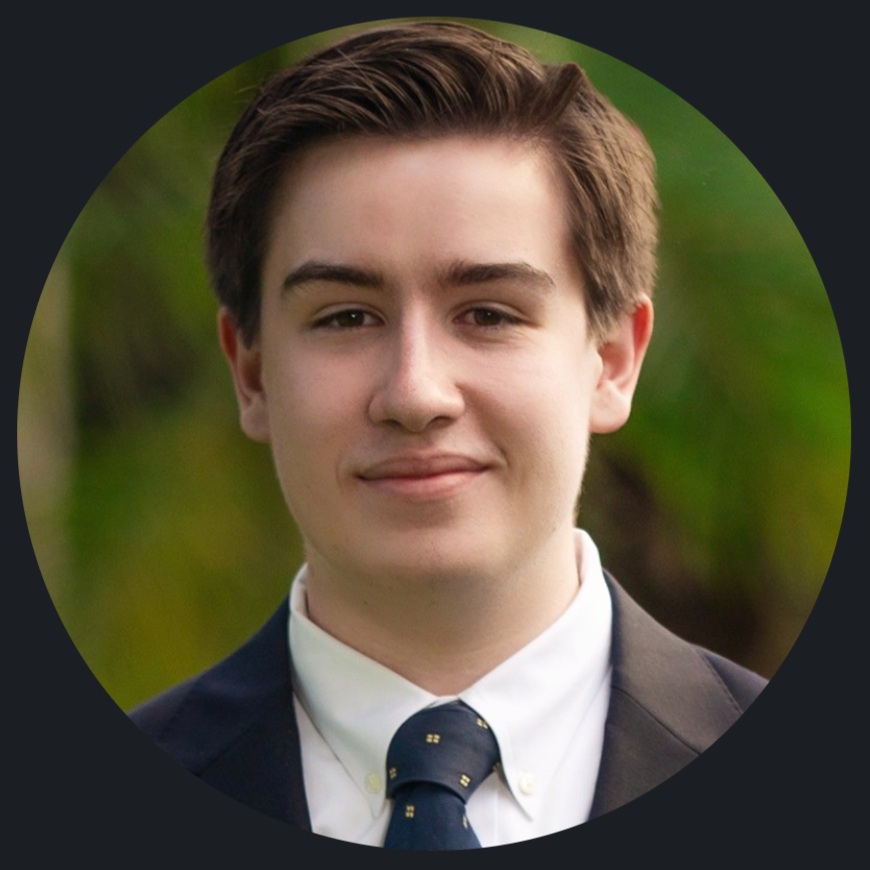
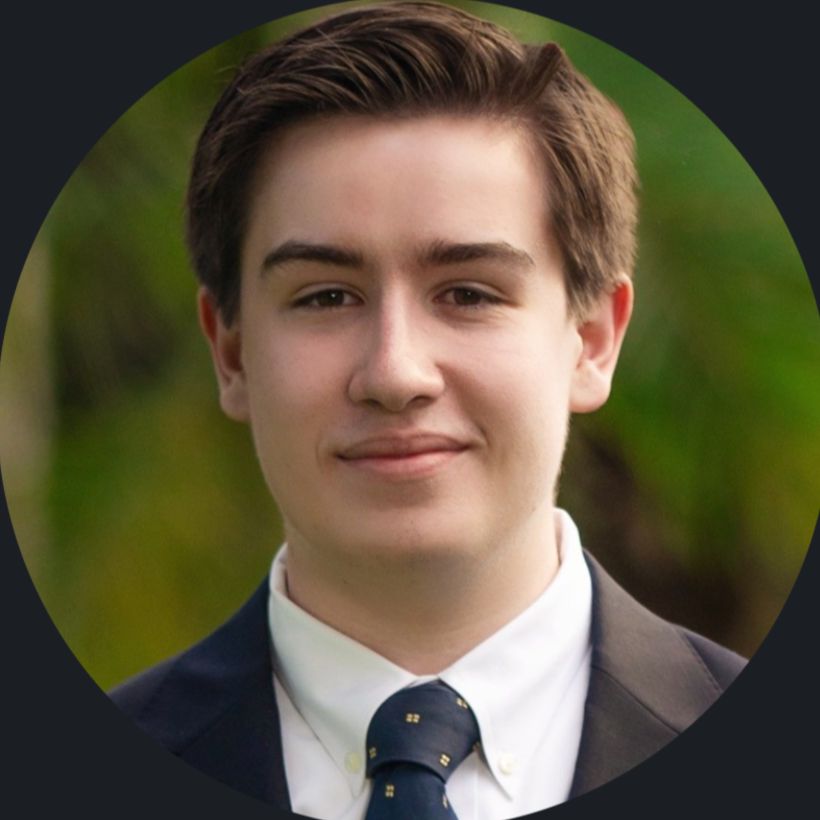
some changenes to images and shizeurfejils

diff --git a/index.html b/index.html
@@ -364,7 +364,7 @@
                 <h1 class="headline-main scramble-text hero-headline" data-value="REJECT">REJECT</h1>
                 <h1 class="headline-main scramble-text hero-headline" data-value="COSSET,">COSSET,</h1>
                 <h1 class="headline-main scramble-text hero-headline" data-value="BUILD">BUILD</h1>
-                <h1 class="headline-main scramble-text hero-headline" data-value="INSTITUTION.">INSTITUTION.</h1>
+                <h1 class="headline-main scramble-text hero-headline" data-value="INSTITUTION">INSTITUTION</h1>
                 <!-- Subtitle/Tagline - Added hero-subtext class for color -->
                 <p class="body-text mt-6 animate-on-load delay-500 max-w-xl mx-auto hero-subtext">
                     Modernizing Asset Management Through Multidisciplinary Quantitative Strategies
@@ -381,19 +381,6 @@
         </section>
 
         <!-- Intro Section -->
-        <!-- <section class="py-24 md:py-24 bg-[var(--bg-secondary)] text-center h-[50vh] flex items-center justify-center">
-                <div class="container mx-auto max-w-3xl">
-                    <p class="body-text animate-on-load delay-200">At Porte Commonwealth, our insight is rooted not in
-                        convention but in the wisdom of the past, empowering us to shape our world rather than become a
-                        product of it. Every day, we harness our resources, perspectives, and relationships to challenge
-                        norms, drive lasting impact, and deliver solutions that redefine what’s possible in quantitative
-                        finance.</p>
-                    <p class="body-text mt-4 animate-on-load delay-300">Markets are a game of marginal gains. Generating
-                        alpha requires looking beyond conventional thinking to identify and capitalize on
-                        micro-inefficiencies. Algorithmic trading is the embodiment of that approach, transforming insight
-                        into decisive action. It’s how we navigate complexity, seize opportunity, and shape outcomes.</p>
-                </div>
-            </section> -->
 
         <section class="py-16 md:py-24 bg-[var(--bg-primary)] px-4">
             <div class="container mx-auto max-w-3xl">
@@ -458,9 +445,10 @@
                 </div>
 
             </div>
+        </section>
          
         <!-- CATASHORT Advancement Section -->
-        <section class="py-16 md:py-24 bg-[var(--bg-primary)] px-4">
+        <section class="py-16 md:py-24 bg-[var(--bg-secondary)] px-4">
             <div class="container mx-auto max-w-4xl text-center">
                 <span class="text-detail mb-4 block animate-on-load delay-100">Our Advancement: CATASHORT</span>
                 <p class="body-text mb-12 animate-on-load delay-200 max-w-3xl">Our most significant advancement in the
@@ -488,9 +476,8 @@
             </div>
         </section>
 
-        <section class="py-16 md:py-24 bg-[var(--bg-secondary)] px-4">
+        <section class="py-16 md:py-24 bg-[var(--bg-primary)] px-4">
             <div class="container mx-auto max-w-6xl flex flex-col md:flex-row items-center gap-10 md:gap-12 lg:gap-16">
-
                 <div class="w-full md:w-1/2 lg:w-3/5 text-center md:text-left">
                     <h2 class="section-headline animate-on-load delay-100">Future Models</h2>
                     <p class="body-text mb-8 animate-on-load delay-200 mx-auto md:mx-0"> Porte Commonwealth is focused
@@ -529,7 +516,7 @@
         </section>
 
         <!-- Our Philosophy Section -->
-        <section class="py-16 md:py-24 bg-[var(--bg-primary)] px-4">
+        <section class="py-16 md:py-24 bg-[var(--bg-secondary)] px-4">
             <div class="container mx-auto max-w-3xl">
                 <div class="text-center mb-12">
                     <h2 class="section-headline animate-on-load delay-100">Our Philosophy</h2>
@@ -555,11 +542,10 @@
         </section>
 
 
-        <!-- ludwing section -->
-
+   
 
         <!-- ludwig section -->
-        <section class="h-screen flex items-center justify-center my-20 md:my-0 bg-[var(--bg-secondary)]">
+        <section class="py-16 md:py-24 flex items-center justify-center bg-[var(--bg-primary)] px-4">
             <!-- Desktop Layout (shown on md screens and up) -->
             <div class="hidden md:flex container mx-auto justify-center">
                 <div class="flex flex-col w-1/2 gap-4">
@@ -599,18 +585,18 @@
         </section>
 
         <!-- Founders Section -->
-        <section class="py-16 md:py-24 bg-[var(--bg-primary)] px-4">
+        <section class="py-16 md:py-24 bg-[var(--bg-secondary)] px-4">
             <div class="container mx-auto max-w-4xl text-center">
                 <h2 class="section-headline animate-on-load delay-100">Founders</h2>
                 <div class="grid grid-cols-1 md:grid-cols-2 gap-12 md:gap-16 mt-12">
 
                     <div class="flex flex-col items-center animate-on-load delay-200">
                         <div class="image-placeholder rounded-full w-full max-w-[250px] md:max-w-[300px] mb-4">
-                            <img src="src/methane.jpg" alt="Portrait of Metehan Tandag"
+                            <img src="src/meatball.jpg" alt="Portrait of Metehan Tandag"
                                 class="w-56 h-56 md:w-72 md:h-72 object-cover rounded-full mx-auto">
                         </div>
                         <h3 class="text-xl font-medium text-[var(--text-primary)] mb-1">Metehan Tandag</h3>
-                        <p class="text-detail">Founder, Chairman</p>
+                        <p class="text-detail">Founder, CTO</p>
                     </div>
 
                     <div class="flex flex-col items-center animate-on-load delay-300">
@@ -644,9 +630,9 @@
             </div>
         </section>
 
-        <!-- <section class="h-[90vh] w-full bg-cover bg-center" style="background-image: url(src/painting.png);"></section> -->
+
         <!-- Contact Form Section -->
-        <section id="contact" class="py-16 md:py-24 bg-[var(--bg-secondary)] px-4">
+        <section id="contact" class="py-16 md:py-24 bg-[var(--bg-primary)] px-4">
             <div class="container mx-auto max-w-2xl text-center">
                 <h2 class="section-headline animate-on-load delay-100">Get In Touch</h2>
                 <p class="body-text mb-10 md:mb-12 animate-on-load delay-200">
@@ -697,7 +683,7 @@
 
 
         <!-- Footer -->
-        <footer class="main-footer py-8 px-4 text-xs ">
+        <footer class="main-footer py-8  px-4 text-xs ">
             <div
                 class="container mx-auto flex flex-col md:flex-row justify-between items-center text-center md:text-left">
                 <div class="mb-4 md:mb-0">© Porte Commonwealth 2024</div>
@@ -709,9 +695,7 @@
                 </div>
             </div>
         </footer>
-
-    </div>
-
+ </div>
     <!-- JavaScript for Nav Scroll, Number Animation & Auto Scramble Effect with Slowdown -->
     <script>
         // --- Nav Scroll Effect ---
